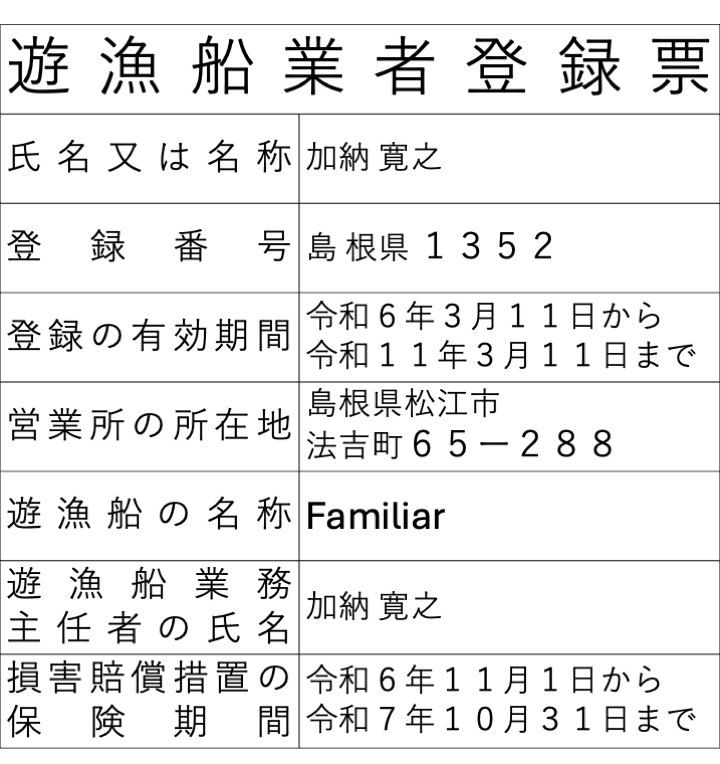
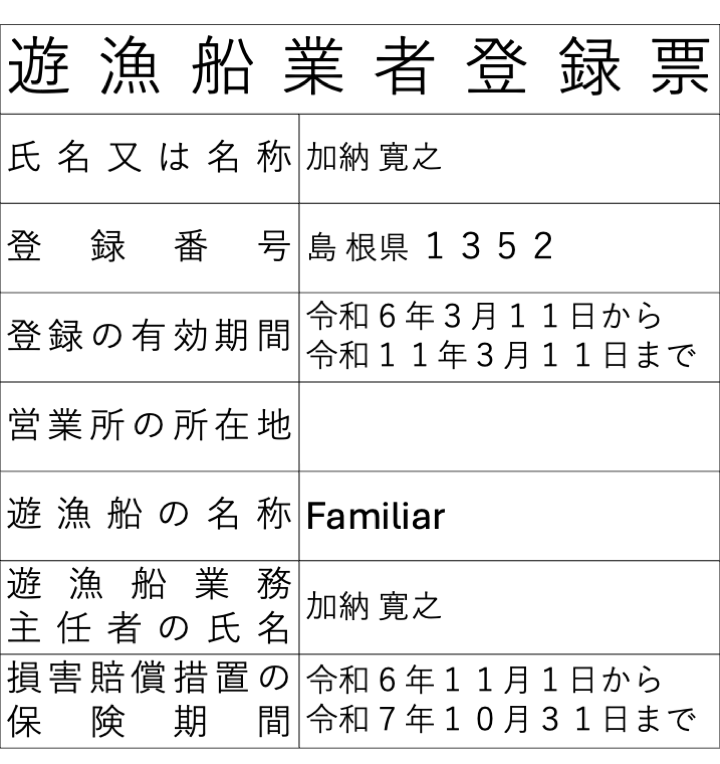
営業所の住所を非表示

Changed region(s): [[0.4278, 0.5118, 0.7944, 0.6021], [0.825, 0.5419, 0.8556, 0.6021]]

diff --git a/index.html b/index.html
@@ -437,6 +437,9 @@
           <path d="M504-480 320-664l56-56 240 240-240 240-56-56 184-184Z" />
         </svg>
       </div>
+      <p>
+        ※営業所は自宅兼用のため表示を控えております。船には掲示があります。営業所の住所については開示を求められれば利用目的を確認の上開示します。
+      </p>
     </section>
 
     <section id="weather">
